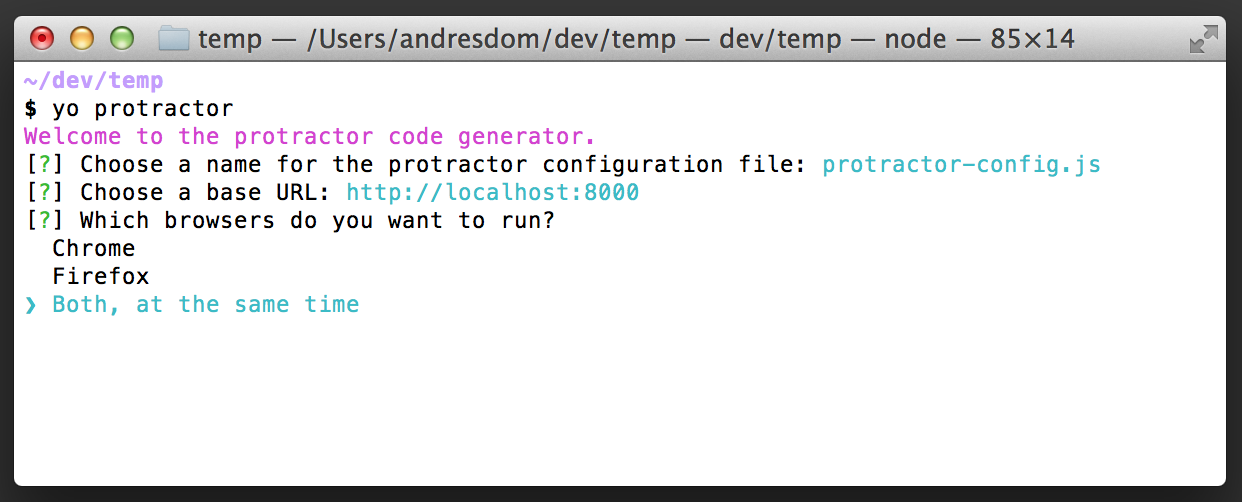
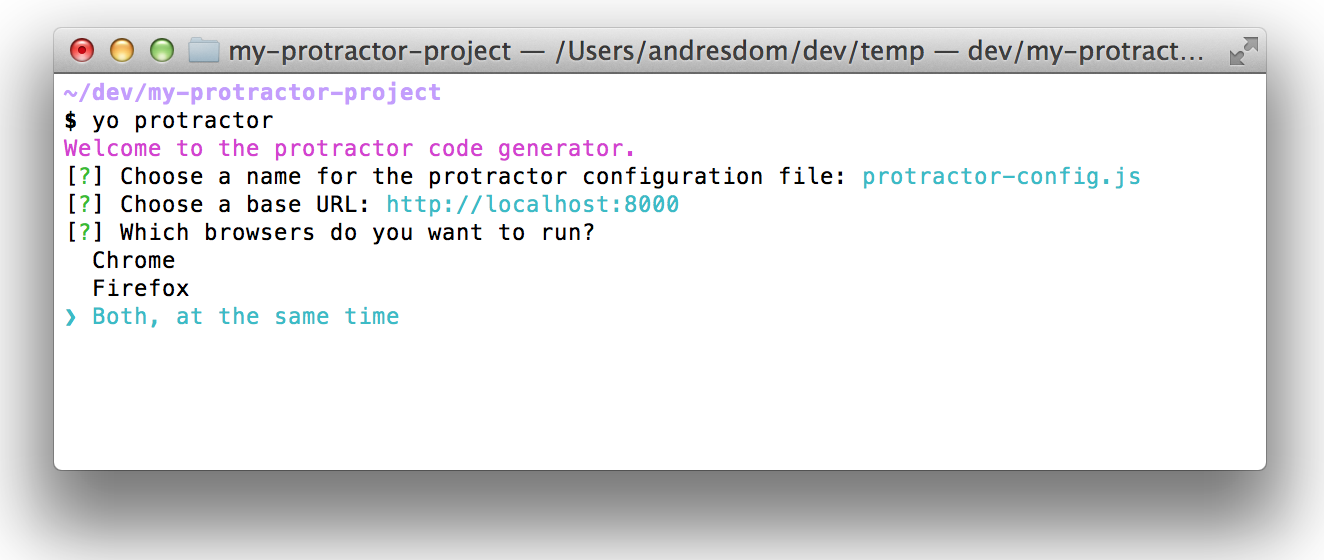
Add screenshot

diff --git a/README.md b/README.md
@@ -18,7 +18,9 @@ To install generator-protractor from npm, run:
 $ npm install -g generator-protractor
 ```
 
-###Usage
+## Usage
+
+![Screenshot](https://github.com/andresdominguez/generator-protractor/blob/mulipleCapabilities/screenshot.png)
 
 Create a new directory where you want to add your integration tests and and cd into it:
 
